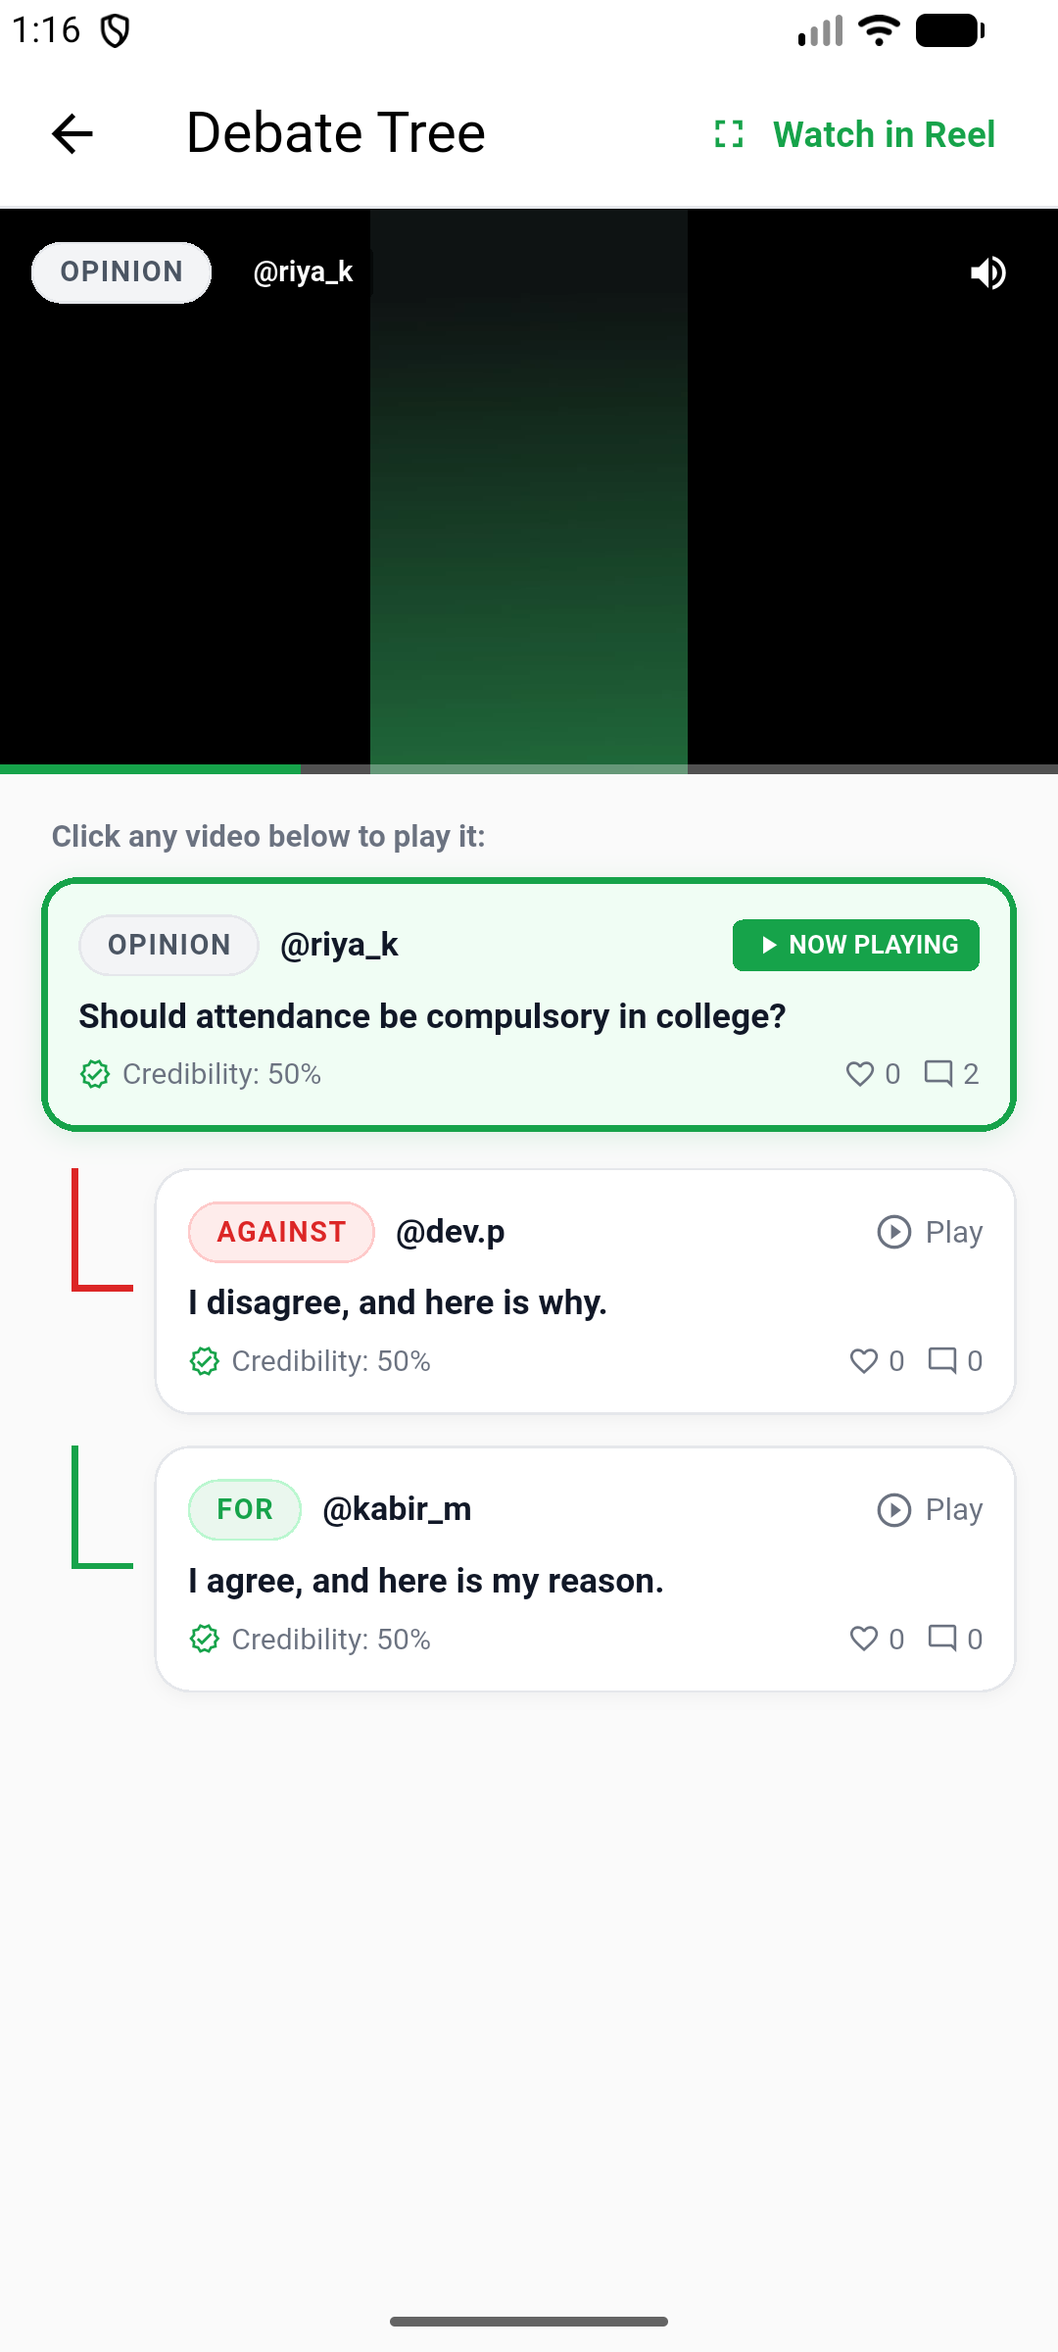
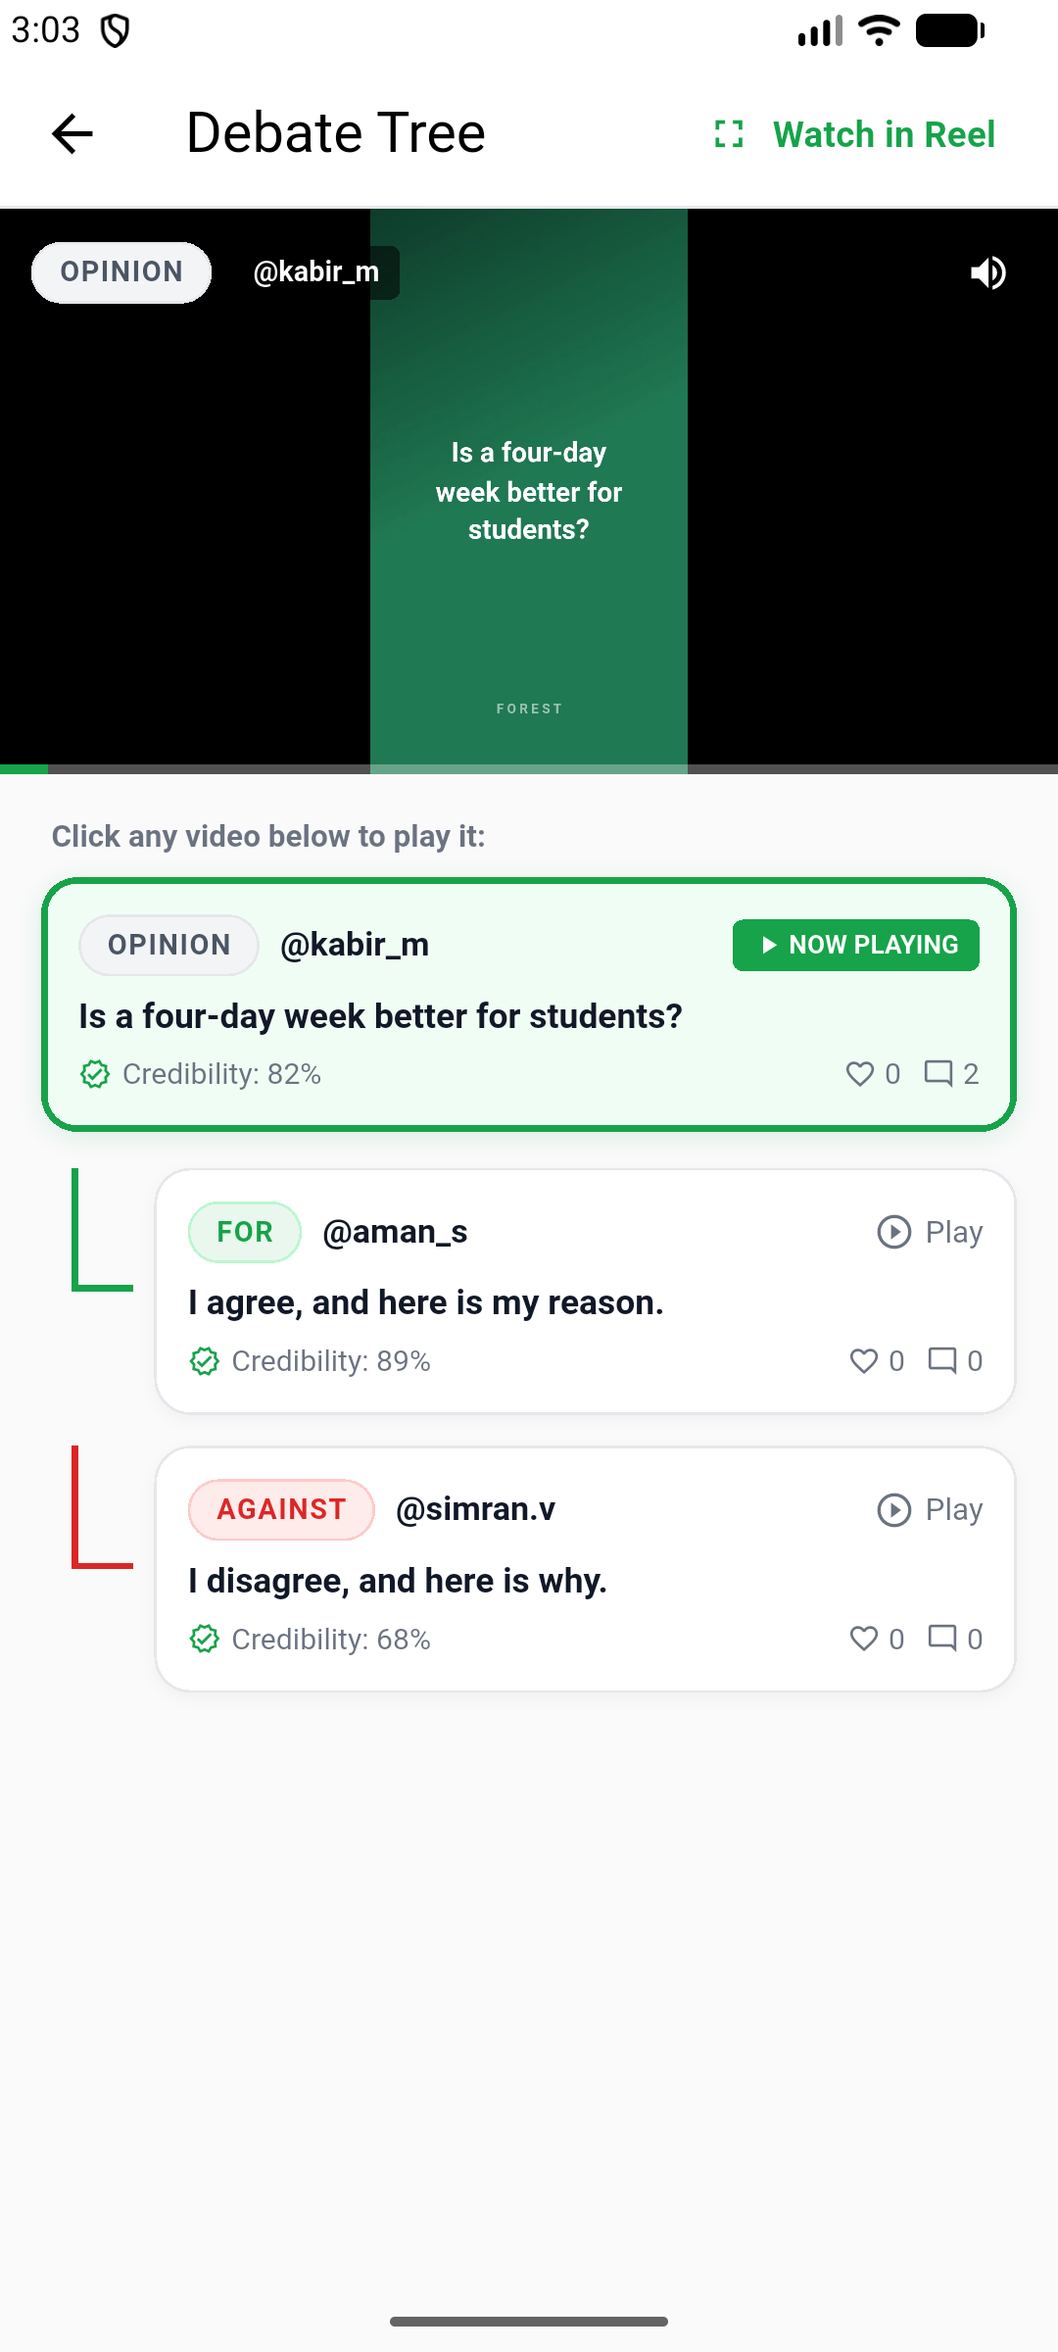
README with app screenshots, expanded journal, docs index
Adds nine app screenshots and a plainer README, rewrites the project journal as a dated log, and updates the docs index.

diff --git a/README.md b/README.md
@@ -1,80 +1,75 @@
 # FOREST
 
-**A video-first debate app. People answer an opinion with a video, and an AI maps every reply as FOR, AGAINST or UNRESOLVED, so a debate becomes a tree you can follow instead of a feed you scroll.**
+A video-first debate app. Someone posts a short video opinion, others answer with videos of their own, and an AI marks each reply as FOR, AGAINST or UNRESOLVED. A debate becomes a tree you can follow from the first opinion to the last reply.
 
-*UCS503 Software Engineering (Project), 2026-27 ODD, Thapar Institute of Engineering and Technology, Patiala. Group 1.*
+UCS503 Software Engineering (Project), 2026-27 ODD, Thapar Institute of Engineering and Technology, Patiala. Group 1.
 
-<p align="center">
-  <img src="assets/screenshots/debate-tree.png" width="23%" alt="Debate tree: one opinion with an AGAINST and a FOR video reply">
-  <img src="assets/screenshots/video.png" width="23%" alt="Video screen with reply, like, tree and send buttons, and a FOR / AGAINST count">
-  <img src="assets/screenshots/home.png" width="23%" alt="Home: question of the day and opinions waiting for an answer">
-  <img src="assets/screenshots/rooms.png" width="23%" alt="Debate rooms: one motion argued by a society or class">
-</p>
+<table>
+  <tr>
+    <td align="center" width="33%"><img src="assets/screenshots/debate-tree.png" alt="Debate tree"><br><sub><b>Debate tree.</b> An opinion and its replies, coloured by side, with a credibility score on each.</sub></td>
+    <td align="center" width="33%"><img src="assets/screenshots/video.png" alt="Video screen"><br><sub><b>Video.</b> Full-screen viewing with reply, like, comments, the tree and a live FOR / AGAINST count.</sub></td>
+    <td align="center" width="33%"><img src="assets/screenshots/home.png" alt="Home"><br><sub><b>Home.</b> The question of the day, opinions still waiting for an answer, and the people you follow.</sub></td>
+  </tr>
+  <tr>
+    <td align="center"><img src="assets/screenshots/discover.png" alt="Discover"><br><sub><b>Discover.</b> A grid of debates picked for you, with search over posts and people.</sub></td>
+    <td align="center"><img src="assets/screenshots/question-of-the-day.png" alt="Question of the day"><br><sub><b>Question of the day.</b> One shared question, answered on video by anyone.</sub></td>
+    <td align="center"><img src="assets/screenshots/debate-room.png" alt="Debate room"><br><sub><b>Debate room.</b> A society or class argues one motion, and the room shows where it stands.</sub></td>
+  </tr>
+  <tr>
+    <td align="center"><img src="assets/screenshots/profile.png" alt="Profile"><br><sub><b>Profile.</b> Followers, interests, a credibility score and the person's own debates.</sub></td>
+    <td align="center"><img src="assets/screenshots/create.png" alt="Create"><br><sub><b>Create.</b> Record or choose a video, or make a text or photo post.</sub></td>
+    <td align="center"><img src="assets/screenshots/login.png" alt="Login"><br><sub><b>Sign in.</b> E-mail code or Google.</sub></td>
+  </tr>
+</table>
 
-<sub>Screenshots are from the Android app running on demo data. The videos are generated placeholders, and every account shown is an automated demo account, labelled **BOT** wherever it appears.</sub>
-
----
+<sub>Screenshots are from the Android app running on demo data. The accounts shown are automated demo accounts and are labelled BOT wherever they appear.</sub>
 
 ## The problem
 
-Short-video apps reward whatever keeps people watching, which is usually whatever makes them angry. Text forums such as Reddit allow real argument, but it is buried in long walls of text that most people skim. In both, a bold claim costs nothing to make and nothing to check, and nobody can see where an argument actually leads.
+Short-video apps reward whatever keeps people watching, which is often whatever makes them angry. Forums such as Reddit allow real argument, but it sits inside long walls of text that most people skim. On both, a confident claim costs nothing to make and nothing to check, and nobody can see where an argument leads.
 
 ## The idea
 
-FOREST turns a conversation into a **tree of videos**:
-
-1. Someone records a short video giving an opinion. That is the **root** of a debate.
+1. Someone records a short video giving an opinion. That is the root of a debate.
 2. Anyone can reply with a video of their own.
-3. The audio is transcribed by an AI (Google Gemini) and each reply is placed against what it answers: **FOR**, **AGAINST** or **UNRESOLVED**. The AI does not decide who is right. It only reports which side a reply is on.
-4. The claims in a video are picked out and given a **credibility score**, so a confident voice is not mistaken for a correct one.
-5. Everyone can open the tree, jump straight to the opposing side, and hear the other argument in a tap.
+3. The audio is transcribed by an AI (Google Gemini), and each reply is placed against what it answers: **FOR**, **AGAINST** or **UNRESOLVED**. The AI says which side a reply is on. It does not decide who is right.
+4. The claims in a video are picked out and given a credibility score, so a confident voice is not mistaken for a correct one.
+5. Anyone can open the tree and go straight to the opposing side.
 
-The aim is the opposite of an echo chamber: the app is built so that the other side is always one swipe away.
+The aim is the opposite of an echo chamber: the other side is always one tap away.
 
 ## What the app does
 
-| | |
-|---|---|
-| **Debate tree** | Every opinion and all of its video replies on one screen, coloured by side, with credibility shown on each. |
-| **Reel-style viewing** | Full-screen vertical video with Reply, Like, Comments, Tree and Send in reach, and a live FOR / AGAINST count. |
-| **Question of the day** | One shared question each day that anyone can answer on video, which gives new people something to say and everybody a common thread. |
-| **Replies wanted** | Opinions that nobody has answered yet are surfaced, so a first post gets a first reply. |
-| **Debate rooms** | A society, a class or a group of friends argues one motion for a few days. Each video is placed for or against the motion and the room shows where it stands. |
-| **Accounts and profiles** | Sign-up with an e-mailed code or Google, a personal profile with a credibility summary, followers, saved posts and a short bio. |
-| **Safety** | Report and block, 18+ sign-up, moderation tools for the team, and an automatic first-pass check on posts. |
-| **Honest labelling** | Automated accounts are always shown as **BOT**. They are never presented as real people. |
+- **Debate tree.** Every opinion and all of its video replies on one screen.
+- **Video viewing.** Full-screen vertical video with subtitles in several languages.
+- **Question of the day.** One shared question each day, so there is always something to answer and a common thread to read.
+- **Replies wanted.** Opinions nobody has answered yet are shown first, so a first post gets a first reply.
+- **Debate rooms.** A group argues one motion for a few days. Each video is placed for or against the motion.
+- **Posting.** Record or choose a video and trim it, or make a text or photo post with music.
+- **Discover and search.** A feed of debates picked for each person, and search over posts and accounts.
+- **Accounts.** Sign-up with an e-mailed code or Google, profiles, followers, saved posts and invite codes.
+- **Safety.** Report and block, 18+ sign-up, moderation tools for the team and an automatic first check on posts.
 
-## Principles we hold ourselves to
+## Principles
 
-- **Stance, not truth.** The AI sorts replies by side. It is not an authority on who is right.
-- **Quality over volume.** Streaks, ranks and any future creator rewards depend on credibility, not on how much someone posts or how many views they get.
-- **No borrowed content.** We do not copy or re-host videos from other platforms. Content comes from our own recordings and from people who upload their own.
-- **Bots are labelled.** Always.
+- **Stance, not truth.** The AI sorts replies by side. It is not the judge of who is right.
+- **Quality over volume.** Streaks, ranks and any future rewards depend on credibility, not on how much someone posts or how many views they get.
+- **No borrowed content.** We do not copy or re-host videos from other platforms.
+- **Bots are labelled.** Automated accounts are always shown as BOT.
 
 ## Team
 
 | Member | Contribution |
 |---|---|
-| **Sahibnoor Singh** | Team lead. Backend architecture, database, deployment. |
-| **Yaksh** | Concept, product design and the mobile app. |
-| **Ridhima** | Audio clean-up: separates speech from background music so the AI hears the person clearly. |
-| **Jasmine Tiwana** | Test data collection and checking that the debate graph connects arguments correctly. |
+| Sahibnoor Singh | Team lead. Backend, database, AI pipeline, mobile app and deployment. |
+| Yaksh | Concept, product design, Discover and the profile page. |
+| Ridhima | Audio clean-up: separates speech from background music so the AI hears the person clearly. |
+| Jasmine Tiwana | Test data collection, and checking that the debate graph connects arguments correctly. |
 
-Each member's weekly notes are in [`journals/`](journals/).
+Weekly notes from each member are in [`journals/`](journals/).
 
 ## What is in this repository
 
-This repository is the **academic submission** for the course. It holds the project proposal, feasibility study, schedule, milestones and the team journals, along with a deliberately simplified demonstration of the backend's shape in [`code/`](code/).
+The academic submission for the course: the project proposal, feasibility study, schedule, milestones, the team journals, and a simplified demonstration of the backend's shape in [`code/`](code/).
 
-The working application, its AI pipeline and its tuning are developed privately and are not part of this repository.
-
-## Status
-
-| Milestone | State |
-|---|---|
-| Backend, dataset, AI stance classification | Done |
-| Flutter mobile app: accounts, video feed, debate tree, question of the day, rooms | Built and in internal testing |
-| Student beta (about 100 users) | Next |
-| Final report and presentation | March 2027 |
-
-The full plan is in [`docs/MILESTONES.md`](docs/MILESTONES.md).
+The working application and its AI pipeline are developed privately and are not part of this repository.

diff --git a/journals/1024030251-sahibnoor/index.md b/journals/1024030251-sahibnoor/index.md
@@ -1,7 +1,55 @@
 # Sahibnoor Singh's Journal
 
-I am the team leader. I worked on the main server connection and the database logic. 
+I am the team leader. I worked on the main server connection and the database logic.
 In the first few weeks, I figured out how to connect our project to the Gemini API so we can process transcripts easily.
-I also set up the graph database so we can store opinions properly without losing data. 
+I also set up the graph database so we can store opinions properly without losing data.
 
 I make sure the team stays on track and I combine everyone's code into the main project at the end of the week.
+
+Below is a dated log of what I actually did, taken from our commit history.
+
+## August 2026: the first website prototype
+
+**11 to 19 August.** I started the repository and built the first version of the FOREST website: an admin dashboard where content can be added, edited and deleted, a custom favicon, and a roadmap page showing the ten phases of the project. The part that took longest was the presentations page. Our plan was to show slide decks inside the site, so I tried an Office embed, then Google's viewer, then a browser PowerPoint renderer, and found each one either looked wrong or showed someone else's branding. I settled on converting each deck to PDF on the server and showing it with pdf.js, then fixed the layout so the controls never cover the slides. I also restricted the viewer to logged-in admins. I marked **Prototype 1.0 complete on 19 August**.
+
+**25 August.** I added the debate graph screen, moved the graph pipeline onto its own testing page, set up a Neo4j Aura graph database, and added a Spring Boot backend to the repository for deployment. This is the graph database mentioned above. It holds the debate tree: which video is a reply to which, and on which side.
+
+## September 2026: AI pipeline, proposal and deployment
+
+**13 to 15 September.** This was our busiest stretch as a team.
+- Merged the Gemini Flash transcription work through three pull requests, and fixed a Spring Boot address setting that had been overwritten when branches were combined.
+- Wrote the project Gantt chart, and added the proposal and the feasibility report.
+- Set up automatic deployment with GitHub Actions to our Oracle cloud server, so a push to `main` updates the live site.
+- Built the "AI Lab" page: a live view of the pipeline as it runs, with a log panel and a transcript viewer, and a layout the user can resize.
+- Gemini's free limits kept running out, so I made the backend try several Gemini models in order and fall back to a second API key when one is exhausted.
+- Protected our data: removed the database and uploaded media from version control, added two rolling snapshots of the SQLite database with automatic recovery, and fixed a bug where re-uploading could clash on an existing ID.
+- Fixed smaller problems: the admin publish button failing silently because of a missing database column, and expired logins leaving the page stuck.
+
+**22 September.** First commits of the Flutter mobile app. From here the project moves from a website to an Android app.
+
+## October 2026: the mobile app
+
+**10 to 15 October.** I built the app's Home screen against our API contract: the feed of opinion cards, replying by recording, choosing from the gallery or typing, a thread view with nested replies, likes, and report and block from a menu. I also built the colour theme (light and dark), a video cache and player pool so scrolling stays smooth, and handling for when the server is busy. On 12 October I merged Yaksh's Discover reels page into the app. By 13 October there was login and sign-up, and I added seed scripts and a shared snapshot so that any teammate sees the same demo data. On 14 October I added subtitles: Gemini returns timed caption lines with the transcript, the language is detected, English captions are made, and the viewer has a language picker (Off, Original, English, Hindi, Punjabi and others).
+
+**17 October.** The post editor, on both the server and the app. A person can make a video, photo slideshow or text post, trim and crop, add music from the phone, put text over the picture, and choose a colour look. The server renders the result with FFmpeg. I also made text in Hindi and Punjabi draw correctly.
+
+**19 to 22 October.** A large week of features:
+- Discover: a grid ranked for each person, search over posts and accounts, sending a video to a friend, and a feed that learns a little from what friends send.
+- Messages inbox, report with a reason, block, and a list of blocked accounts.
+- Sign-up by an e-mailed code, instead of paid SMS, and Continue with Google, with the server checking Google's token itself.
+- Onboarding for new users, and a redesigned login and sign-up.
+- The question of the day, a "waiting for an answer" strip for opinions nobody has replied to, debate rooms where a society argues one motion, and invite codes.
+- Product events and a private numbers page for the team.
+
+**27 October.** Merged Yaksh's profile page into the main app (pull request 7) and joined it with the Account tab.
+
+## November 2026: polish, review and hosting
+
+- A polish pass on the video screen and Home, a notifications list with a badge, and clearer wording when something fails, so users never see a raw error.
+- Wrote the files to host the server on a cloud machine: a Docker setup with automatic HTTPS, nightly backups, an update script, a settings check, and a cost estimate. These are written and checked but not yet run on a real machine.
+- Reviewed the new server code for bugs and fixed ten of them: a limit on rooms that counted finished rooms, wrong dates for a different time zone, suspended accounts still visible, blocked people appearing in lists, counts that did not match what was shown, and a slow profile page. Each fix has its own automated test.
+- The project now has about 365 automated tests on the server and about 540 in the app, and they all pass.
+
+## Working with the team
+
+I keep the main branch up to date and merge each person's branch into it, and when a merge touched someone else's files I wrote them a short note on what changed. Yaksh's Discover and profile work and Ridhima's audio clean-up script both went in through this process. The next step on my side is hosting the server so the team can test the app on real phones.

diff --git a/docs/index.md b/docs/index.md
@@ -5,25 +5,29 @@
 
 # FOREST
 
-**A video-first debate app. People answer an opinion with a video, and an AI maps every reply as FOR, AGAINST or UNRESOLVED, so a debate becomes a tree you can follow instead of a feed you scroll.**
+A video-first debate app. Someone posts a short video opinion, others answer with videos of their own, and an AI marks each reply as FOR, AGAINST or UNRESOLVED. A debate becomes a tree you can follow from the first opinion to the last reply.
 
 **Author(s)**: Sahibnoor Singh, Yaksh, Ridhima, Jasmine Tiwana (Group 1)
 
 ## The app
 
-| Debate tree | Video | Home | Debate rooms |
+| Debate tree | Video | Home | Discover |
 |---|---|---|---|
-| ![Debate tree](assets/screenshots/debate-tree.png) | ![Video screen](assets/screenshots/video.png) | ![Home](assets/screenshots/home.png) | ![Debate rooms](assets/screenshots/rooms.png) |
+| ![Debate tree](assets/screenshots/debate-tree.png) | ![Video screen](assets/screenshots/video.png) | ![Home](assets/screenshots/home.png) | ![Discover](assets/screenshots/discover.png) |
 
-*Screenshots are from the Android app running on demo data. The videos are generated placeholders, and every account shown is an automated demo account, labelled BOT wherever it appears.*
+| Question of the day | Debate room | Profile | Create |
+|---|---|---|---|
+| ![Question of the day](assets/screenshots/question-of-the-day.png) | ![Debate room](assets/screenshots/debate-room.png) | ![Profile](assets/screenshots/profile.png) | ![Create](assets/screenshots/create.png) |
+
+*Screenshots are from the Android app running on demo data. The accounts shown are automated demo accounts and are labelled BOT wherever they appear.*
 
 ## The idea
 
 1. Someone records a short video giving an opinion. That is the root of a debate.
 2. Anyone can reply with a video of their own.
-3. The audio is transcribed by an AI and each reply is placed against what it answers: **FOR**, **AGAINST** or **UNRESOLVED**. The AI reports which side a reply is on. It does not decide who is right.
+3. The audio is transcribed by an AI and each reply is placed against what it answers: **FOR**, **AGAINST** or **UNRESOLVED**. The AI says which side a reply is on. It does not decide who is right.
 4. The claims in a video are given a credibility score.
-5. Everyone can open the tree and reach the opposing side in a tap, which is the opposite of an echo chamber.
+5. Anyone can open the tree and go straight to the opposing side.
 
 ## Where to look
 
